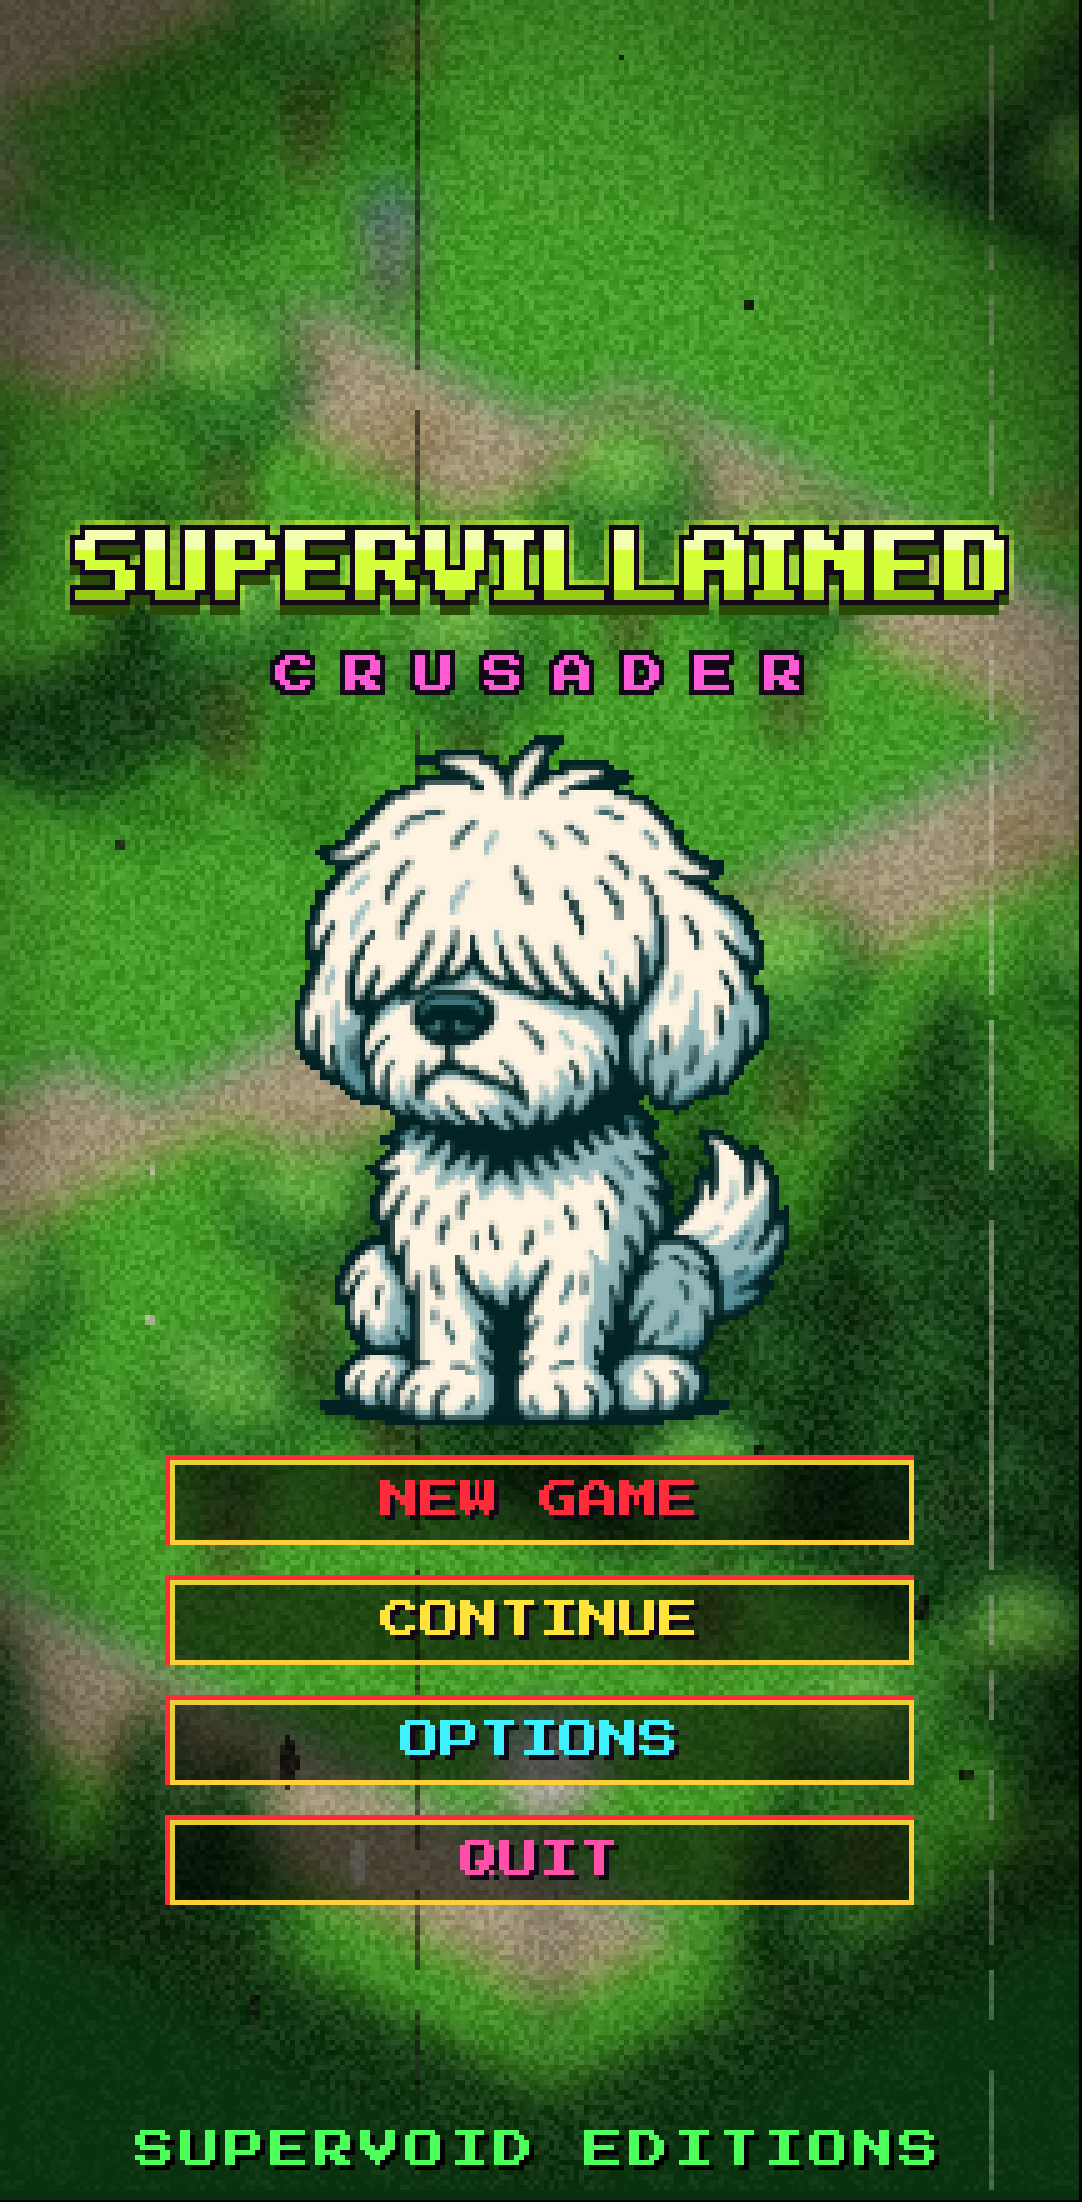
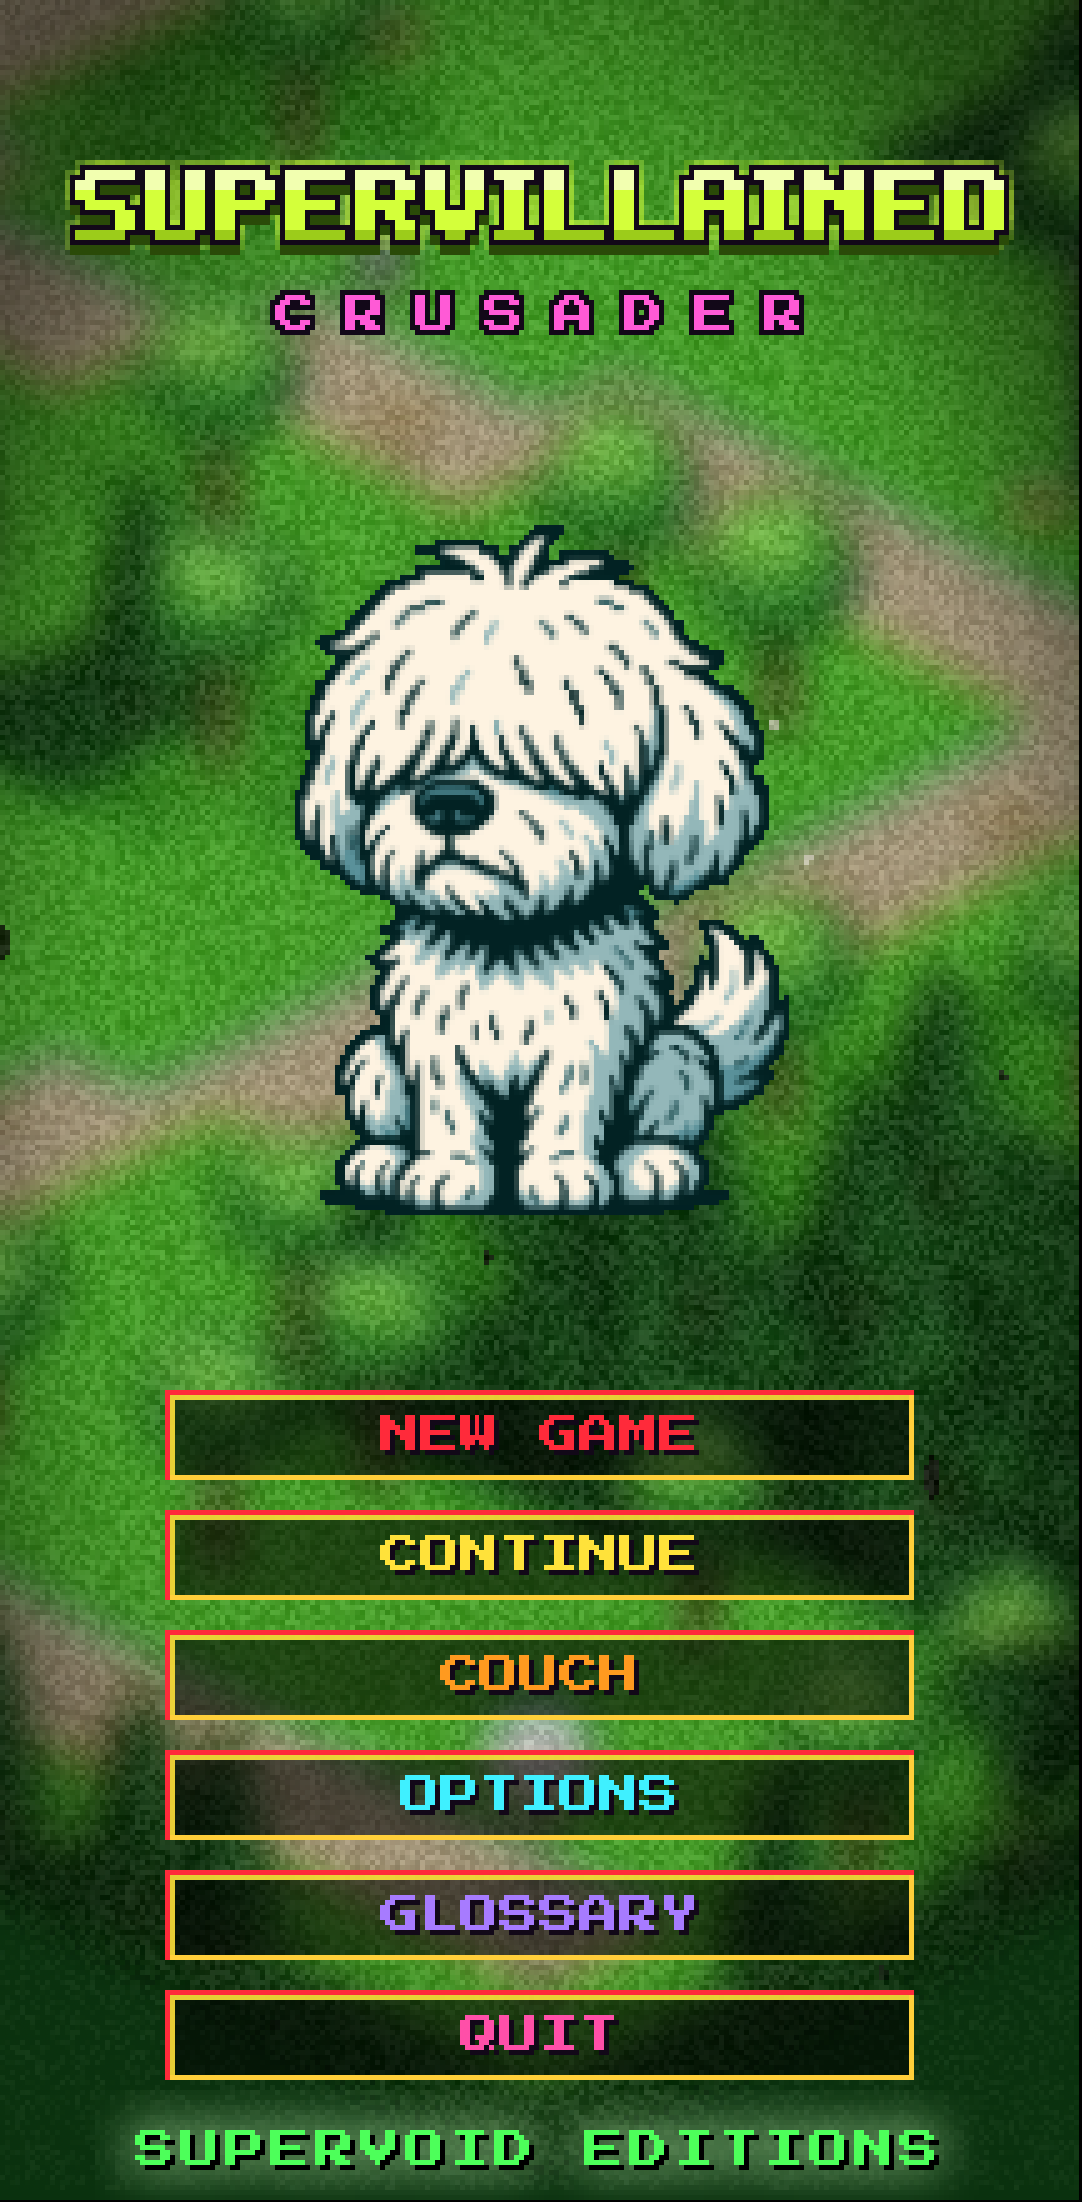
Title page: title near the top, GIF centered, title glitch, footer glow
SUPERVILLAINED CRUSADER now sits near the top (7% down), the buttons
just above SUPERVOID EDITIONS, and the animated portrait in the middle
of the space between them. The title's lettering glitches in short
bursts (fx/textGlitchFilter.ts: sliding slices, color split, flicker,
letters only). SUPERVOID EDITIONS lost its underline (still a link) and
glows slowly. Tuning in TITLE.

Claude-Session: https://claude.ai/code/session_01M83brc3uYNtkMe9oqkk4LQ

diff --git a/src/scenes/overlays.ts b/src/scenes/overlays.ts
@@ -1,6 +1,7 @@
-import { Container, Graphics, Sprite, Texture } from 'pixi.js';
+import { BlurFilter, Container, Graphics, Sprite, Texture } from 'pixi.js';
 import { TITLE } from '../config';
 import type { TitleGlitchFilter } from '../fx/titleGlitchFilter';
+import { TextGlitchFilter } from '../fx/textGlitchFilter';
 import { loadTitleArt, titleTexture, type TitleArt } from '../ui/titleArt';
 import { frameAt, titleAnimation, titleStill, type TitleAnim } from '../ui/titleAnim';
 import { artVersion } from '../assets/build';
@@ -12,7 +13,7 @@ import { formatScore, formatTime, type LevelStats } from '../systems/scoring';
 import { Menu, type MenuItem } from '../ui/menu';
 import { PixelText, type Span } from '../ui/pixelText';
 import { logoTexture, logoWidth, type LogoStyle } from '../ui/logo';
-import { C, hex, retroBox } from '../ui/retro';
+import { C, retroBox } from '../ui/retro';
 import { spriteName } from '../assets/manifest';
 import type { LevelDef } from '../world/level';
 
@@ -93,9 +94,20 @@ export class TitleScene extends Overlay {
   /** Where Continue goes. */
   private readonly best: PixelText;
   private readonly menu: Menu;
-  /** Publisher line (a link to its site): the smallest crisp size of the pixel font, underlined. */
+  /** The title's lettering (SUPERVILLAINED + CRUSADER), glitching now and then. */
+  private readonly titleGroup = new Container();
+  private readonly titleGlitch = new TextGlitchFilter();
+  private textBurstLeft = 0;
+  private nextTextBurst = 1.2;
+  /** Publisher line (a link to its site): the smallest crisp size of the pixel font. */
   private readonly footer = new PixelText('SUPERVOID EDITIONS', { color: C.green, shadow: '#000000', letterSpacing: 1 }).setOrigin(0.5, 1);
-  private readonly footerLine = new Graphics();
+  /** Its slow glow: a blurred pale copy behind it, breathing. */
+  private readonly footerGlow = new PixelText('SUPERVOID EDITIONS', {
+    color: TITLE.FOOTER_GLOW_COLOR,
+    outline: TITLE.FOOTER_GLOW_COLOR,
+    outlineWidth: 2,
+    letterSpacing: 1,
+  }).setOrigin(0.5, 1);
   /** Seconds left of the footer's flash after a tap. */
   private footerFlash = 0;
 
@@ -128,7 +140,10 @@ export class TitleScene extends Overlay {
     );
     if (canContinue) this.menu.selected = 1;
     this.dog.anchor.set(0.5, 0);
-    this.root.addChild(this.title, this.edition, this.dog, this.best, this.menu.root, this.footerLine, this.footer);
+    this.titleGroup.addChild(this.title, this.edition);
+    this.titleGroup.filters = [this.titleGlitch];
+    this.footerGlow.filters = [new BlurFilter({ strength: TITLE.FOOTER_GLOW_BLUR, quality: 3, resolution: 1 })];
+    this.root.addChild(this.titleGroup, this.dog, this.best, this.menu.root, this.footerGlow, this.footer);
     void loadTitleArt().then((art) => {
       this.art = art;
       if (!this.root.destroyed) this.layout();
@@ -145,35 +160,28 @@ export class TitleScene extends Overlay {
       this.title.anchor.set(0.5);
     }
     const cx = Math.round(w / 2);
-    // The stack, from the top: the title, CRUSADER, the portrait, the buttons, where CONTINUE goes.
-    // Laid out from y = 0, then lowered into most of the free space above the footer.
+    // The title near the top (TITLE.TOP), the buttons and where CONTINUE goes just above the
+    // publisher line, and the portrait in the middle of the space between them.
     const halfTitle = Math.round(this.title.height / 2);
-    let y = halfTitle + Math.round(this.title.height / 2) + 10;
-    const editionY = y;
-    y += 12;
-    const dogY = y;
-    const bottom = h - 16;
-    const top0 = Math.max(18, halfTitle + 4);
-    // The portrait takes DOG_WIDTH of the screen, smaller if the stack would not fit (short
-    // screens: a desktop window).
-    const below = 6 + this.menu.height + 5 + (this.actions.continueLabel ? this.best.textHeight : 0) + 6;
-    const room = bottom - (top0 - halfTitle) - y - below;
+    const titleY = Math.round(h * TITLE.TOP) + halfTitle;
+    const editionY = titleY + halfTitle + 10;
+    const headerBottom = editionY + 6;
+    const bestH = this.actions.continueLabel ? this.best.textHeight : 0;
+    const groupBottom = h - 16 - TITLE.BOTTOM_GAP;
+    const bestY = groupBottom - bestH;
+    const menuY = bestY - (bestH ? 5 : 0) - this.menu.height;
+    // The portrait takes DOG_WIDTH of the screen, smaller if it would not fit (short screens).
+    const gapTop = headerBottom + 6;
+    const room = menuY - 6 - gapTop;
     const dogW = Math.max(24, Math.min(Math.round(w * TITLE.DOG_WIDTH), Math.floor(room / TITLE.DOG_ASPECT)));
-    y += this.layoutDog(dogW) + 6;
-    const menuY = y;
-    y += this.menu.height + 5;
-    const bestY = y;
-    y += (this.actions.continueLabel ? this.best.textHeight : 0) + 6;
-    const free = Math.max(0, bottom - (top0 - halfTitle) - y);
-    const off = top0 + Math.round(free * TITLE.LOWER);
-    this.title.position.set(cx, off);
-    this.edition.position.set(cx, off + editionY - halfTitle);
-    this.dog.position.set(cx, off + dogY - halfTitle);
-    this.menu.layout(w / 2, off + menuY - halfTitle);
-    this.best.position.set(cx, off + bestY - halfTitle);
+    const dogH = this.layoutDog(dogW);
+    this.title.position.set(cx, titleY);
+    this.edition.position.set(cx, editionY);
+    this.dog.position.set(cx, gapTop + Math.max(0, Math.round((room - dogH) / 2)));
+    this.menu.layout(w / 2, menuY);
+    this.best.position.set(cx, bestY);
     this.footer.position.set(cx, h - 6);
-    const fw = Math.round(this.footer.textWidth);
-    this.footerLine.clear().rect(cx - Math.round(fw / 2), h - 5, fw, 1).fill({ color: hex(C.green), alpha: 0.7 });
+    this.footerGlow.position.set(cx, h - 6);
   }
 
   /** Sets the portrait for this width; returns the height it takes. */
@@ -221,8 +229,11 @@ export class TitleScene extends Overlay {
     this.dog.visible = this.time > 0.35;
     this.menu.root.visible = this.time > 0.5;
     this.animateGlitch(dt);
+    this.animateTitleGlitch(dt);
     this.footerFlash = Math.max(0, this.footerFlash - dt);
-    this.footer.alpha = this.footerLine.alpha = this.footerFlash > 0 ? 0.55 : 1;
+    this.footer.alpha = this.footerFlash > 0 ? 0.55 : 1;
+    const [fa, fb] = TITLE.FOOTER_GLOW_ALPHA;
+    this.footerGlow.alpha = fa + (fb - fa) * (0.5 - 0.5 * Math.cos(this.time * TITLE.FOOTER_GLOW_SPEED));
     // Covered by the glossary card: it keeps animating, but the card has the input.
     if (this.game.scenes.top !== this) return;
     if (this.time > 0.6) {
@@ -239,6 +250,21 @@ export class TitleScene extends Overlay {
       }
       this.menu.update(dt, input);
     }
+  }
+
+  /** The title's lettering glitches in short bursts, with a faint shiver in between. */
+  private animateTitleGlitch(dt: number): void {
+    const f = this.titleGlitch;
+    const rnd = (r: readonly number[]) => r[0]! + Math.random() * (r[1]! - r[0]!);
+    f.time = this.time;
+    this.nextTextBurst -= dt;
+    if (this.nextTextBurst <= 0) {
+      this.nextTextBurst = rnd(TITLE.TEXT_GLITCH_EVERY);
+      this.textBurstLeft = rnd(TITLE.TEXT_GLITCH_TIME);
+    }
+    this.textBurstLeft -= dt;
+    f.burst = this.textBurstLeft > 0 ? rnd(TITLE.TEXT_GLITCH_BURST) : 0;
+    f.idle = TITLE.TEXT_GLITCH_IDLE;
   }
 
   /** The background: an old dirty film that glitches now and then, mostly vertically. */

diff --git a/src/fx/textGlitchFilter.ts b/src/fx/textGlitchFilter.ts
@@ -1,0 +1,116 @@
+import { Filter, GlProgram, UniformGroup } from 'pixi.js';
+
+const vertex = `in vec2 aPosition;
+out vec2 vTextureCoord;
+
+uniform vec4 uInputSize;
+uniform vec4 uOutputFrame;
+uniform vec4 uOutputTexture;
+
+vec4 filterVertexPosition(void)
+{
+    vec2 position = aPosition * uOutputFrame.zw + uOutputFrame.xy;
+    position.x = position.x * (2.0 / uOutputTexture.x) - 1.0;
+    position.y = position.y * (2.0 * uOutputTexture.z / uOutputTexture.y) - uOutputTexture.z;
+    return vec4(position, 0.0, 1.0);
+}
+
+vec2 filterTextureCoord(void)
+{
+    return aPosition * (uOutputFrame.zw * uInputSize.zw);
+}
+
+void main(void)
+{
+    gl_Position = filterVertexPosition();
+    vTextureCoord = filterTextureCoord();
+}
+`;
+
+const fragment = `in vec2 vTextureCoord;
+out vec4 finalColor;
+
+uniform sampler2D uTexture;
+uniform highp vec4 uInputSize;
+uniform highp vec4 uInputClamp;
+uniform float uTime;
+uniform float uBurst;
+uniform float uIdle;
+
+float rand(vec2 co) {
+    return fract(sin(dot(co, vec2(12.9898, 78.233))) * 43758.5453);
+}
+
+vec4 sampleAt(vec2 uv) {
+    return texture(uTexture, clamp(uv, uInputClamp.xy, uInputClamp.zw));
+}
+
+void main(void)
+{
+    vec2 uv = vTextureCoord;
+    vec2 onePx = uInputSize.zw;
+    float py = uv.y * uInputSize.y;
+    float tick = floor(uTime * 20.0);
+    float b = uBurst;
+
+    // Horizontal slices of the letters jump sideways during a burst.
+    float band = floor(py / (2.0 + floor(rand(vec2(tick, 5.1)) * 5.0)));
+    float r = rand(vec2(band, tick));
+    if (r < b * 0.55) uv.x += floor((rand(vec2(band * 1.7, tick + 3.0)) - 0.5) * 24.0 * b) * onePx.x;
+    // A faint shiver between bursts.
+    if (r > 1.0 - uIdle * 0.04) uv.x += (rand(vec2(band, tick + 9.0)) > 0.5 ? 1.0 : -1.0) * onePx.x;
+
+    // RGB split: red one way, blue the other (wider in a burst).
+    float split = floor(uIdle + b * 3.0 + 0.5);
+    vec4 c = sampleAt(uv);
+    vec4 cr = sampleAt(uv - vec2(split * onePx.x, 0.0));
+    vec4 cb = sampleAt(uv + vec2(split * onePx.x, 0.0));
+    float a = max(c.a, max(cr.a, cb.a));
+    vec3 col = vec3(cr.r, c.g, cb.b);
+
+    // A burst also flickers some rows of the letters bright (premultiplied: white is vec3(a), so
+    // the transparent space around the letters stays untouched).
+    if (rand(vec2(floor(py / 2.0), tick + 17.0)) < b * 0.12) col = mix(col, vec3(a), 0.6);
+
+    finalColor = vec4(min(col, vec3(a)), a);
+}
+`;
+
+/**
+ * Glitch for the title's lettering (SUPERVILLAINED CRUSADER): in a burst, horizontal slices
+ * jump sideways, the colors split and rows flicker; in between, a faint shiver. `burst` and `idle`
+ * are 0..1. The filter needs `padding` so the displaced slices are not clipped.
+ */
+export class TextGlitchFilter extends Filter {
+  private readonly u: UniformGroup<{
+    uTime: { value: number; type: 'f32' };
+    uBurst: { value: number; type: 'f32' };
+    uIdle: { value: number; type: 'f32' };
+  }>;
+
+  constructor() {
+    const u = new UniformGroup({
+      uTime: { value: 0, type: 'f32' },
+      uBurst: { value: 0, type: 'f32' },
+      uIdle: { value: 0, type: 'f32' },
+    });
+    super({
+      glProgram: GlProgram.from({ vertex, fragment, name: 'sv-text-glitch' }),
+      resources: { textGlitchUniforms: u },
+      resolution: 1,
+      antialias: 'off',
+      padding: 14,
+    });
+    this.u = u;
+  }
+
+  set time(v: number) {
+    this.u.uniforms.uTime = v;
+  }
+  set burst(v: number) {
+    this.u.uniforms.uBurst = v;
+  }
+  set idle(v: number) {
+    this.u.uniforms.uIdle = v;
+  }
+}

diff --git a/src/config.ts b/src/config.ts
@@ -84,8 +84,21 @@ export const TITLE = {
   DOG_WIDTH: 0.46,
   /** The animated portrait's height / width (space kept for it while the GIF decodes). */
   DOG_ASPECT: 1.4,
-  /** Share of the free space below the stack moved above it (lowers everything toward the footer). */
-  LOWER: 0.75,
+  /** The title (SUPERVILLAINED CRUSADER): its top at this fraction of the screen height. */
+  TOP: 0.07,
+  /** Space between the buttons (or where CONTINUE goes) and the publisher line, px. */
+  BOTTOM_GAP: 8,
+  /** Glitch on the title's lettering: a burst every [min, max] s, lasting [min, max] s. */
+  TEXT_GLITCH_EVERY: [1.8, 4.5],
+  TEXT_GLITCH_TIME: [0.06, 0.2],
+  /** ...its strength [min, max] (flickering while it lasts) and the faint shiver in between. */
+  TEXT_GLITCH_BURST: [0.45, 1],
+  TEXT_GLITCH_IDLE: 0.35,
+  /** Slow glow behind SUPERVOID EDITIONS: alpha (min, max), speed (rad/s), blur, color. */
+  FOOTER_GLOW_ALPHA: [0.05, 0.75],
+  FOOTER_GLOW_SPEED: 1.2,
+  FOOTER_GLOW_BLUR: 3,
+  FOOTER_GLOW_COLOR: '#c8ffb8',
   /** SUPERVOID EDITIONS at the bottom links to the publisher. */
   PUBLISHER_URL: 'https://supervoideditions.com/',
   /** Background glitch (mostly vertical): flickering burst strength [min, max], faint level in between. */

diff --git a/DECISIONS.md b/DECISIONS.md
@@ -405,7 +405,7 @@ longer bullied in the Green Zone.
   mostly vertically (`fx/titleGlitchFilter.ts`: columns tearing up and down, a vertical RGB
   split, rolling, tall corrupted blocks, vertical bars, a few horizontal tears). Tuning:
   `TITLE.GLITCH_*` and `TITLE.FILM`. The stack
-  is lowered into most of the free space above SUPERVOID EDITIONS (`TITLE.LOWER`).
+  is laid out as below ("Title page layout").
   The pictures are scaled in the browser (step-by-step halving, crisp alpha) to the logical
   resolution, so they match the pixel art at any screen size.
 
@@ -498,3 +498,17 @@ buttons the title's stack could overflow a short screen (a desktop window), so t
 shrinks to the room left. Measuring text uses `textWidth`/`textHeight` (a PixelText sprite is
 padded and rounded up to 16 px), which also centers GLOSSARY's ring and the footer's underline
 exactly.
+
+## Title page layout, the title's glitch, the publisher's glow
+
+- **Layout**: SUPERVILLAINED and CRUSADER sit near the top (their top at 7% of the screen height,
+  `TITLE.TOP`), the buttons (and where CONTINUE goes) just above SUPERVOID EDITIONS
+  (`TITLE.BOTTOM_GAP`), and the animated portrait in the middle of the space between them
+  (smaller if that space is short).
+- **The title glitches** (`fx/textGlitchFilter.ts`, on the title and CRUSADER together): short
+  bursts every 1.8 to 4.5 s in which horizontal slices of the letters jump sideways, the colors
+  split and rows flicker; a faint shiver in between. It touches only the letters (premultiplied
+  colors are clamped to their alpha), never the space around them.
+- **SUPERVOID EDITIONS** lost its underline (it is still a link) and glows slowly: a blurred,
+  outlined pale-green copy behind it breathes in and out (about 5 s per breath).
+  Tuning: `TITLE.TEXT_GLITCH_*`, `TITLE.FOOTER_GLOW_*`.
